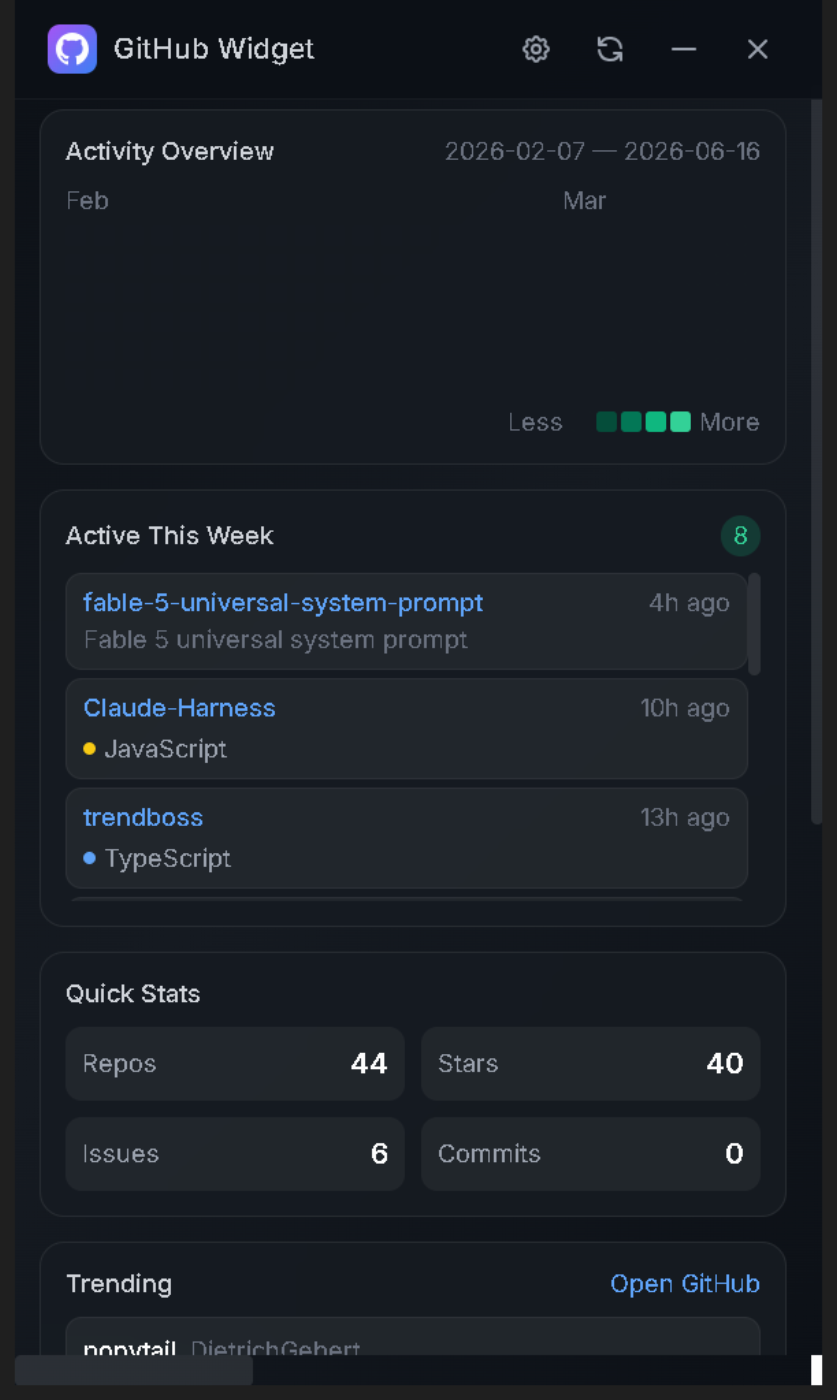
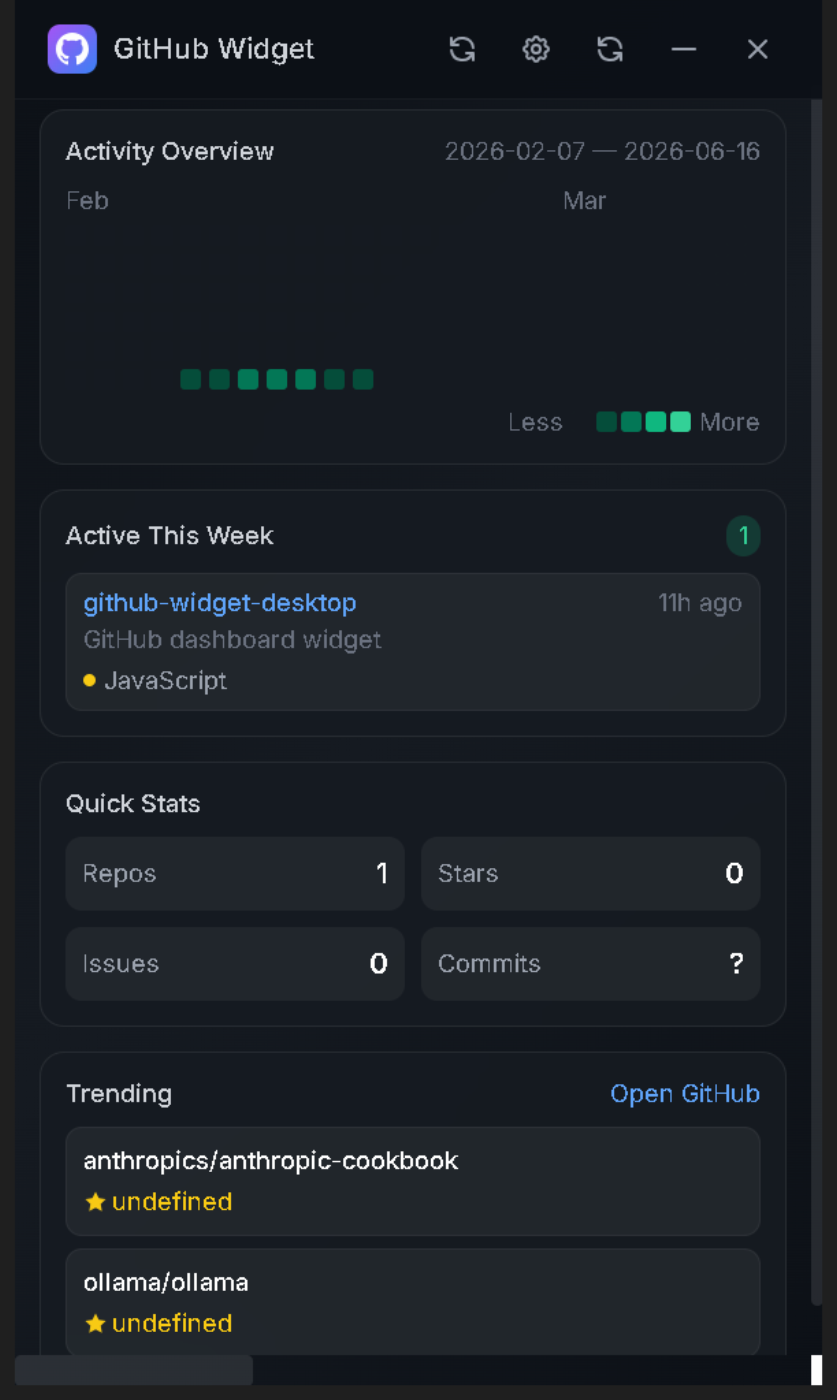
fix: full sync API path and listener leak
The github-full-sync handler was using /{username}/{repo}/commits which
returns 404 for every repo. The correct path is /repos/{username}/{repo}/commits.
Every iteration of the loop broke on the first 404, returning an empty
activity map.

Also fixed a listener leak in preload.js: onSyncProgress() was calling
ipcRenderer.on() each time it was invoked, accumulating listeners and
eventually breaking progress updates on subsequent syncs. Moved the
listener registration to module scope with a single stored callback.

Added explicit HTTP error detection in fetchGitHub (reject on status >= 400)
so 404/401 errors don't get silently treated as empty data.

diff --git a/main.js b/main.js
@@ -31,8 +31,13 @@ function fetchGitHub(reqPath, token) {
       let data = '';
       res.on('data', chunk => data += chunk);
       res.on('end', () => {
-        try { resolve(JSON.parse(data)); }
-        catch { resolve({ error: 'Parse error', raw: data }); }
+        let parsed;
+        try { parsed = JSON.parse(data); } catch { parsed = { error: 'Parse error', raw: data }; }
+        if (res.statusCode >= 400) {
+          reject({ httpError: true, status: res.statusCode, message: parsed.message || parsed.error || `HTTP ${res.statusCode}`, data: parsed });
+          return;
+        }
+        resolve(parsed);
       });
     });
     req.on('error', reject);
@@ -196,11 +201,11 @@ ipcMain.handle('github-full-sync', async (event, { username, token, cachedActivi
       while (hasMore) {
         try {
           const commits = await fetchGitHub(
-            `/${username}/${repo.name}/commits?since=${ninetyDaysStr}&per_page=100&page=${page}`,
+            `/repos/${username}/${repo.name}/commits?since=${ninetyDaysStr}&per_page=100&page=${page}`,
             token
           );
 
-          if (commits.error || !Array.isArray(commits)) {
+          if (!Array.isArray(commits)) {
             hasMore = false;
             break;
           }

diff --git a/preload.js b/preload.js
@@ -1,11 +1,16 @@
 const { contextBridge, ipcRenderer } = require('electron');
 
+let syncProgressCallback = null;
+ipcRenderer.on('sync-progress', (e, data) => {
+  if (syncProgressCallback) syncProgressCallback(data);
+});
+
 contextBridge.exposeInMainWorld('electronAPI', {
   minimize: () => ipcRenderer.send('minimize-window'),
   close: () => ipcRenderer.send('close-window'),
   fetchGitHubData: (config) => ipcRenderer.invoke('github-fetch-data', config),
   fullSync: (config) => ipcRenderer.invoke('github-full-sync', config),
   onSyncProgress: (callback) => {
-    ipcRenderer.on('sync-progress', (e, data) => callback(data));
+    syncProgressCallback = callback;
   }
 });

diff --git a/README.md b/README.md
@@ -8,10 +8,13 @@ A lightweight GitHub dashboard widget for Windows — always accessible on your 
 
 ## Features
 
-- **Activity heatmap** — commit history visualization (Feb–Jun 2026)
+- **Activity heatmap** — commit history visualization across all your repos (cached locally)
 - **Active repos** — recently pushed repositories with language, stars, and issues
 - **Quick stats** — total repos, stars, open issues, and contributions
 - **Trending repos** — today's trending GitHub projects
+- **Two refresh modes**:
+  - **Quick refresh** (🔄) — fetches recent events and merges with cached activity. Fast, no rate limit pressure.
+  - **Full sync** (⟳) — scans every repo's commit history to build a complete activity map. Runs on first launch, then only fetches deltas.
 - **System tray integration** — double-click tray icon to restore, right-click for menu
 - **Custom title bar** — minimize and close buttons (hide to tray, don't quit)
 - **Toggle always-on-top** — right-click tray → Toggle Always on Top
@@ -38,12 +41,20 @@ npm run build   # build .exe installer
 
 | Action | Result |
 |--------|--------|
-| Minimize button | Hides to system tray |
-| Close button | Hides to system tray |
+| 🔄 button | Quick refresh — recent events only, merged with cache |
+| ⟳ button | Full sync — scan every repo, rebuild complete activity map |
+| ⚙ button | Settings — GitHub username and personal access token |
+| Minimize / Close button | Hides to system tray |
 | Double-click tray icon | Restore widget |
 | Right-click tray icon | Show menu (Show, Toggle Always on Top, Quit) |
-| Quit menu item | Fully exits the app |
+
+## Notes
+
+- A GitHub token with `repo` scope is required to access private repositories and to avoid rate limits. Get one at GitHub → Settings → Developer Settings → Personal Access Tokens.
+- The full sync may take a few minutes the first time (it iterates all your repos and pulls commit history). Subsequent quick refreshes only fetch the delta.
+- Activity data is cached in `localStorage` so it persists between launches.
 
 ## Recent Changes
 
+- [1.0.1] Fix full sync API path (`/users/{u}/repos/{r}/commits` → `/repos/{u}/{r}/commits`) and fix listener leak in preload (2026-06-17)
 - [1.0.0] Initial release — Electron desktop widget with activity map, active repos, quick stats, trending repos, and system tray integration (2026-06-16)
